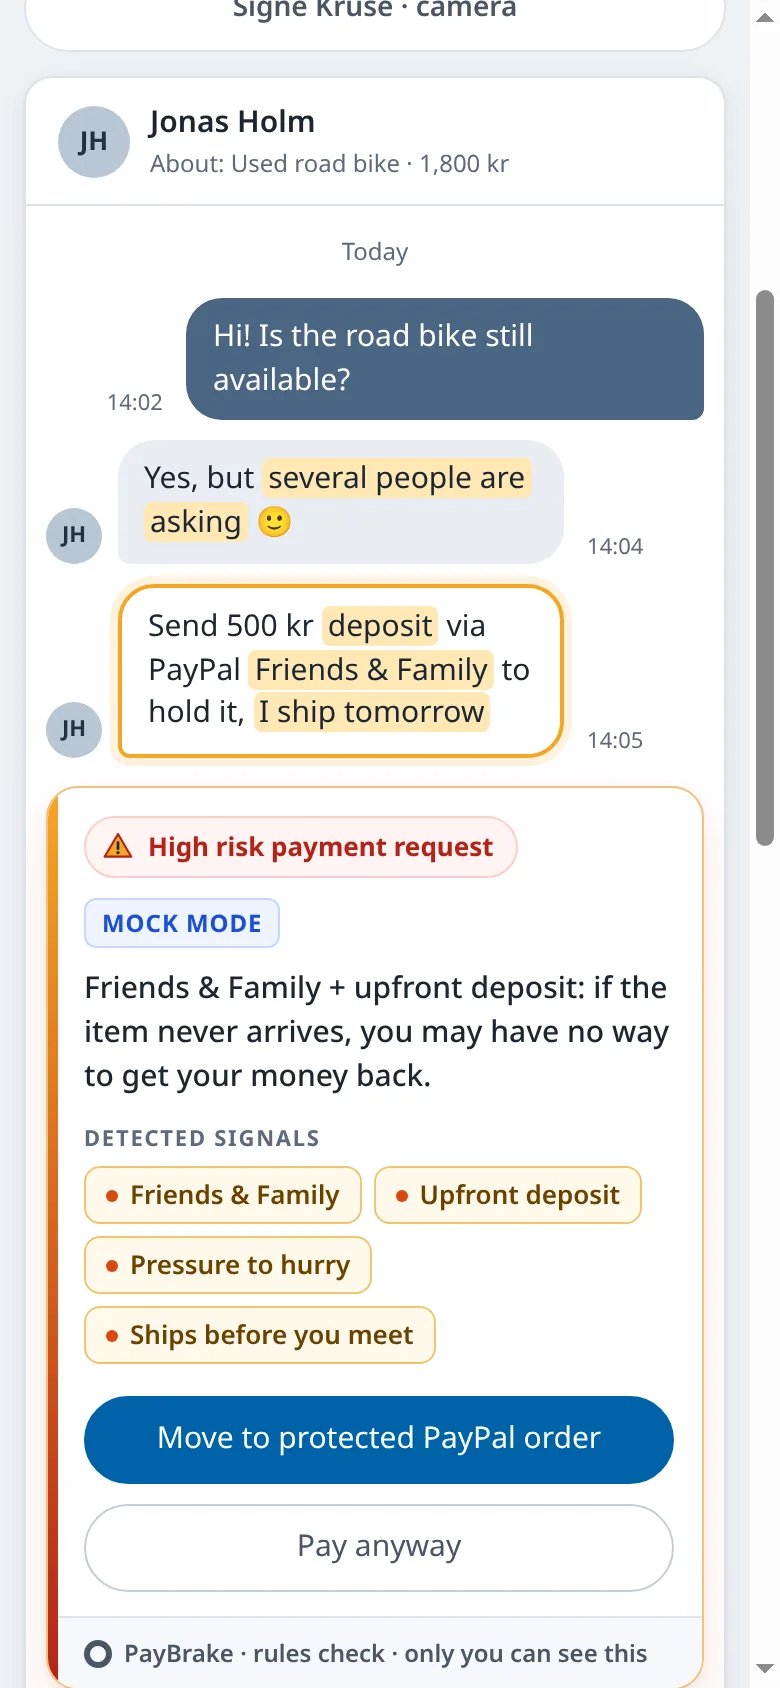
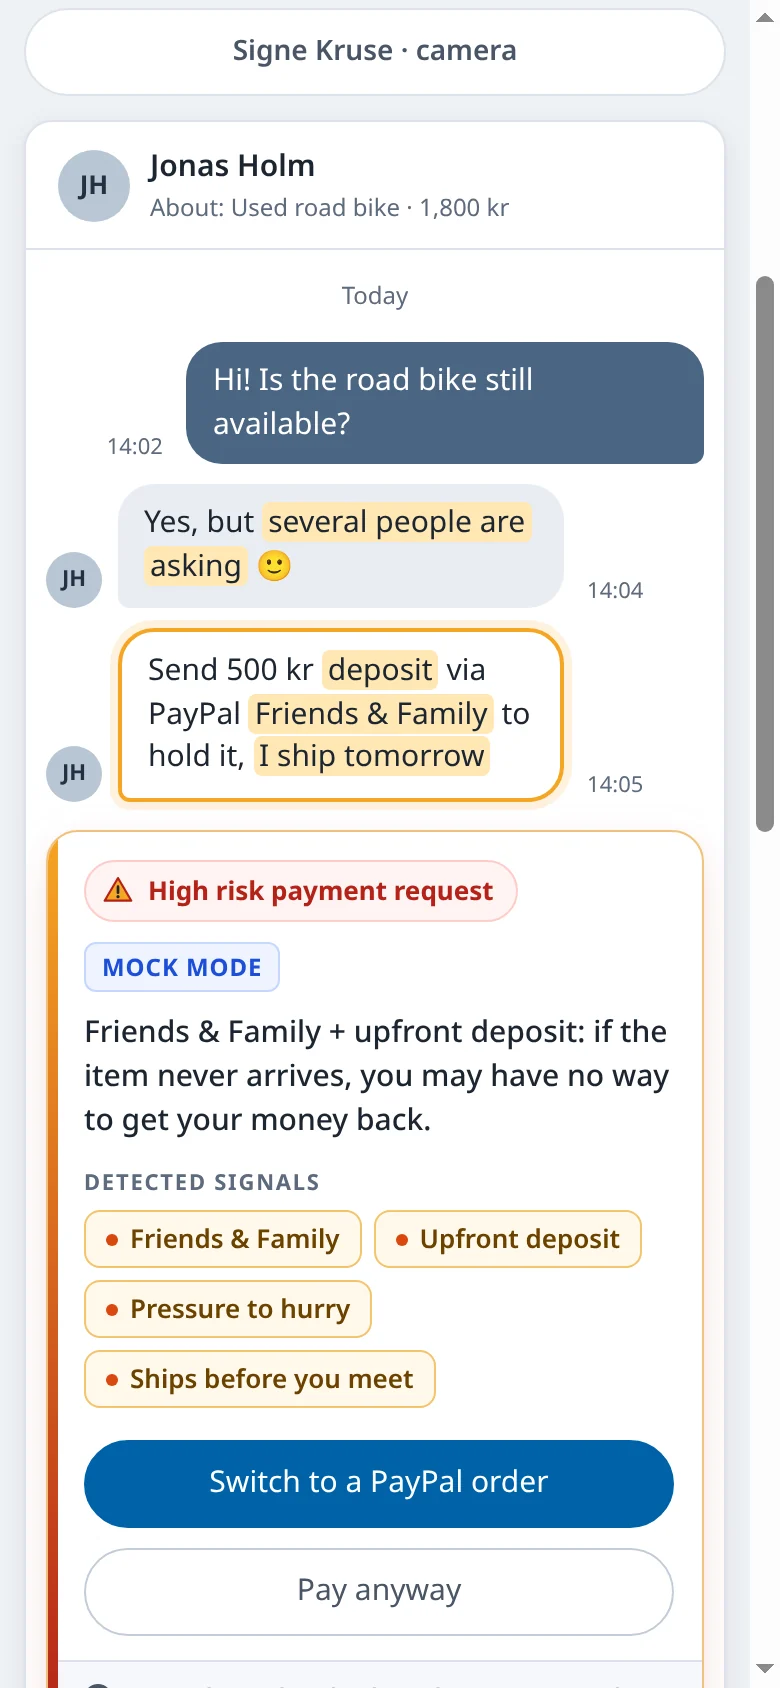
site: 'Switch to a PayPal order' label, retaken screenshots, install points to v0.2.0-test.2

diff --git a/site/index.html b/site/index.html
@@ -354,7 +354,7 @@ footer a:hover{color:#9ccfff}
         <li class="step">
           <span class="step-n" aria-hidden="true">03</span>
           <h3>Offers a PayPal order instead</h3>
-          <p><strong>"Move to protected PayPal order"</strong> creates a PayPal sandbox Orders v2 order (intent CAPTURE) for the item, price and seller email. You approve it on PayPal sandbox checkout, then capture. The card then reads: <span class="q">"Paid with PayPal Goods &amp; Services (sandbox). Buyer Protection may be eligible; see PayPal terms."</span></p>
+          <p><strong>"Switch to a PayPal order"</strong> creates a PayPal sandbox Orders v2 order (intent CAPTURE) for the item, price and seller email. You approve it on PayPal sandbox checkout, then capture. The card then reads: <span class="q">"Paid with PayPal Goods &amp; Services (sandbox). Buyer Protection may be eligible; see PayPal terms."</span></p>
           <p><strong>"Pay anyway"</strong> collapses the card and writes the choice to an override log on your device.</p>
         </li>
       </ol>
@@ -373,12 +373,12 @@ footer a:hover{color:#9ccfff}
       </div>
 
       <div class="track">
-        <div class="track-head"><span class="tag">Path A</span><h3>Move to a PayPal order</h3><p>Bike chat → order → approval → capture.</p></div>
+        <div class="track-head"><span class="tag">Path A</span><h3>Switch to a PayPal order</h3><p>Bike chat → order → approval → capture.</p></div>
         <ol class="board board-protect">
           <li class="frame f1">
             <figure style="margin:0">
-              <div class="shot"><img src="img/thread-bike.webp" width="1200" height="1072" loading="lazy" decoding="async"
-                alt="Demo chat with Jonas Holm about a used road bike for 1,800 kr. His message 'Send 500 kr deposit via PayPal Friends & Family to hold it, I ship tomorrow' is outlined in amber with deposit, Friends & Family and I ship tomorrow highlighted; 'several people are asking' is highlighted above. Below it a PayBrake card shows 'High risk payment request', a MOCK MODE tag, the reason 'Friends & Family + upfront deposit: if the item never arrives, you may have no way to get your money back', signal chips Friends & Family, Upfront deposit, Pressure to hurry, Ships before you meet, a blue 'Move to protected PayPal order' button, a 'Pay anyway' button, and the footer 'PayBrake · rules check · only you can see this'."></div>
+              <div class="shot"><img src="img/thread-bike.webp" width="1200" height="1073" loading="lazy" decoding="async"
+                alt="Demo chat with Jonas Holm about a used road bike for 1,800 kr. His message 'Send 500 kr deposit via PayPal Friends & Family to hold it, I ship tomorrow' is outlined in amber with deposit, Friends & Family and I ship tomorrow highlighted; 'several people are asking' is highlighted above. Below it a PayBrake card shows 'High risk payment request', a MOCK MODE tag, the reason 'Friends & Family + upfront deposit: if the item never arrives, you may have no way to get your money back', signal chips Friends & Family, Upfront deposit, Pressure to hurry, Ships before you meet, a blue 'Switch to a PayPal order' button, a 'Pay anyway' button, and the footer 'PayBrake · rules check · only you can see this'."></div>
               <figcaption><b><span class="fn">A1</span>The card appears</b>Friends &amp; Family plus a deposit to hold it. The hurry line and "I ship tomorrow" add to the reason but would not trigger a card alone.</figcaption>
             </figure>
           </li>
@@ -411,8 +411,8 @@ footer a:hover{color:#9ccfff}
         <ul class="board board-pair">
           <li class="frame">
             <figure style="margin:0">
-              <div class="shot"><img src="img/thread-camera.webp" width="1200" height="1017" loading="lazy" decoding="async"
-                alt="Demo chat with Signe Kruse about a mirrorless camera for 2,400 kr. Highlighted phrases: 'Today only', 'can only ship', 'I am abroad', 'MobilePay' and 'Bank transfer' in the message 'Send 2,400 kr on MobilePay to 20 34 56 78. Bank transfer works too.' A PayBrake card shows 'High risk payment request', the reason 'Off-platform payment: a transfer outside PayPal checkout is hard to reverse if the item never arrives', chips Off-platform payment, Pressure to hurry, Ships before you meet, and buttons 'Move to protected PayPal order' and 'Pay anyway'."></div>
+              <div class="shot"><img src="img/thread-camera.webp" width="1200" height="1019" loading="lazy" decoding="async"
+                alt="Demo chat with Signe Kruse about a mirrorless camera for 2,400 kr. Highlighted phrases: 'Today only', 'can only ship', 'I am abroad', 'MobilePay' and 'Bank transfer' in the message 'Send 2,400 kr on MobilePay to 20 34 56 78. Bank transfer works too.' A PayBrake card shows 'High risk payment request', the reason 'Off-platform payment: a transfer outside PayPal checkout is hard to reverse if the item never arrives', chips Off-platform payment, Pressure to hurry, Ships before you meet, and buttons 'Switch to a PayPal order' and 'Pay anyway'."></div>
               <figcaption><b><span class="fn">B1</span>Off-platform request</b>MobilePay to a phone number, or a bank transfer, from a seller who is "abroad". The buyer clicks <strong>Pay anyway</strong>. The card collapses and the choice goes into the override log on the device.</figcaption>
             </figure>
           </li>
@@ -432,8 +432,8 @@ footer a:hover{color:#9ccfff}
           <li class="frame">
             <figure style="margin:0">
               <div class="shot"><img src="img/options.webp" width="1200" height="750" loading="lazy" decoding="async"
-                alt="PayBrake settings page: Backend URL field set to http://localhost:8787, unchecked boxes 'Ask the backend for an AI check (off uses rules only)' and 'Debug HUD on chat pages', a Save button, and an Override log with Download JSON and Clear buttons listing two timestamped entries (one override, one protect)."></div>
-              <figcaption><b><span class="fn">C1</span>Settings</b>Backend URL, AI check toggle (off means rules only), debug HUD, and the override log with Download JSON and Clear.</figcaption>
+                alt="PayBrake settings page: Backend URL field set to the hosted test server https://paybrake-demo.spbabinov.workers.dev with a note that it is test orders only, buttons 'Use test server' and 'Use localhost:8787', unchecked boxes 'Ask the backend for an AI check (off uses rules only)' and 'Debug HUD on chat pages', a Save button, and an empty Override log with Download JSON and Clear buttons."></div>
+              <figcaption><b><span class="fn">C1</span>Settings</b>Backend URL (hosted test server by default, one click for localhost), AI check toggle (off means rules only), debug HUD, and the override log with Download JSON and Clear.</figcaption>
             </figure>
           </li>
           <li class="frame">
@@ -447,7 +447,7 @@ footer a:hover{color:#9ccfff}
           <li class="frame phone">
             <figure style="margin:0">
               <div class="shot"><img src="img/live-390.webp" width="780" height="1688" loading="lazy" decoding="async"
-                alt="Phone-width view (390 px) of the bike chat with Jonas Holm: highlighted risky phrases and the PayBrake High risk payment request card with wrapped signal chips and full-width 'Move to protected PayPal order' and 'Pay anyway' buttons stacked."></div>
+                alt="Phone-width view (390 px) of the bike chat with Jonas Holm: highlighted risky phrases and the PayBrake High risk payment request card with wrapped signal chips and full-width 'Switch to a PayPal order' and 'Pay anyway' buttons stacked."></div>
               <figcaption><b><span class="fn">C3</span>390 px</b>The bike chat card at phone width.</figcaption>
             </figure>
           </li>
@@ -522,7 +522,7 @@ footer a:hover{color:#9ccfff}
           <ul>
             <li>Detection runs in the extension, on your device.</li>
             <li>Chat text leaves the browser only if you turn on the AI check. Then your configured backend sends it to the model provider.</li>
-            <li>"Protect" sends item, amount, currency, seller email and the verdict to the backend.</li>
+            <li>"Switch to a PayPal order" sends item, amount, currency, seller email and the verdict to the backend.</li>
             <li>Secrets live only in <code>backend/.env</code>, never in the extension.</li>
             <li>The override log stays in <code>chrome.storage</code> on your device (max 200 entries). You can download or clear it.</li>
             <li>Permissions: <code>storage</code> only. Host access: the hosted demo server (<code>paybrake-demo.spbabinov.workers.dev</code>) and a local backend on <code>localhost:8787</code>. The content script runs only on the hosted demo, <code>localhost</code>, <code>127.0.0.1</code> and <code>file://</code> pages.</li>
@@ -556,20 +556,20 @@ footer a:hover{color:#9ccfff}
     <div class="wrap">
       <p class="kicker">Install</p>
       <h2 id="install-h">Try the test build in about 2 minutes.</h2>
-      <p class="lede">Recommended: the <code>v0.2.0-test.1</code> pre-release. It is a mock build, so you don't need Node, a server or PayPal credentials. The repo is private for now, so the release link only works if you have repo access.</p>
+      <p class="lede">Recommended: the <code>v0.2.0-test.2</code> pre-release. It is a mock build, so you don't need Node, a server or PayPal credentials. The repo is private for now, so the release link only works if you have repo access.</p>
       <div class="install">
         <div>
           <ol class="how">
-            <li>Download <code>paybrake-extension.zip</code> from the <a href="https://github.com/lamapony/paybrake/releases/tag/v0.2.0-test.1">v0.2.0-test.1 pre-release</a> and unzip it.</li>
+            <li>Download <code>paybrake-extension.zip</code> from the <a href="https://github.com/lamapony/paybrake/releases/tag/v0.2.0-test.2">v0.2.0-test.2 pre-release</a> and unzip it.</li>
             <li>Open <code>chrome://extensions</code> and turn on <strong>Developer mode</strong>.</li>
             <li>Click <strong>Load unpacked</strong> and pick the <code>paybrake-extension</code> folder (the one with <code>manifest.json</code>).</li>
             <li>A welcome tab opens. Click <strong>Try the demo store</strong>, or open the <a href="https://paybrake-demo.spbabinov.workers.dev/demo/marketplace.html?live=1">hosted demo</a>.</li>
-            <li>In the bike chat: <strong>Move to protected PayPal order</strong> → <strong>Open approval</strong> → <strong>Approve (mock)</strong>. Back in the chat, click <strong>I approved it, capture</strong>. Then open the camera chat and click <strong>Pay anyway</strong>. The desk lamp chat gets no card.</li>
+            <li>In the bike chat: <strong>Switch to a PayPal order</strong> → <strong>Open approval</strong> → <strong>Approve (mock)</strong>. Back in the chat, click <strong>I approved it, capture</strong>. Then open the camera chat and click <strong>Pay anyway</strong>. The desk lamp chat gets no card.</li>
           </ol>
         </div>
         <div>
           <div class="ctas">
-            <a class="btn btn-pp" href="https://github.com/lamapony/paybrake/releases/tag/v0.2.0-test.1">Get v0.2.0-test.1</a>
+            <a class="btn btn-pp" href="https://github.com/lamapony/paybrake/releases/tag/v0.2.0-test.2">Get v0.2.0-test.2</a>
             <a class="btn btn-outline" href="https://paybrake-demo.spbabinov.workers.dev/demo/marketplace.html?live=1">Open the hosted demo</a>
           </div>
           <p class="small" style="margin-top:20px">The test build talks to the hosted mock server by default. To use your own backend, set the Backend URL in Settings to <code>http://localhost:8787</code>.</p>
@@ -605,7 +605,7 @@ npm run eval</code></pre>
             <li>Open <code>chrome://extensions</code> and turn on <strong>Developer mode</strong>.</li>
             <li>Click <strong>Load unpacked</strong> and choose the <code>extension/</code> folder.</li>
             <li>Open <code>http://localhost:8080/demo/marketplace.html?live=1</code>.</li>
-            <li>Click <strong>Move to protected PayPal order</strong> → <strong>Open approval</strong> → <strong>Approve (mock)</strong>.</li>
+            <li>Click <strong>Switch to a PayPal order</strong> → <strong>Open approval</strong> → <strong>Approve (mock)</strong>.</li>
             <li>Back in the chat, click <strong>I approved it, capture</strong>.</li>
           </ol>
           <p class="small"><strong>Optional:</strong> put a PayPal sandbox client id and secret in <code>backend/.env</code> to create real sandbox orders. The <a href="https://github.com/lamapony/paybrake#readme">README</a> has the sandbox setup steps.</p>

diff --git a/site/README.md b/site/README.md
@@ -3,7 +3,7 @@
 Static page for the PayPal AI Hackathon submission. No build step: open `index.html` or serve this folder.
 
 - `img/hero.webp`, `img/og.jpg`, `img/favicon.svg`: made fresh for this page.
-- Other `img/*.webp`: real Playwright screenshots of the unpacked extension on `demo/marketplace.html?live=1` with the backend in mock mode (branch backend-rest, d6f4004).
+- Other `img/*.webp`: real Playwright screenshots of the unpacked extension on `demo/marketplace.html?live=1` with the backend in mock mode. `thread-bike`, `thread-camera`, `live-390` and `options` were retaken from the v0.2.0-test.2 zip against the hosted demo (branch tester-friendly); the rest are from backend-rest d6f4004 and show no changed UI.
 - `noindex` via meta tag, `_headers` and `robots.txt`. Preview only, on Cloudflare Pages.
 
 Placeholders to fill: demo video URL, Devpost URL, team roles.
